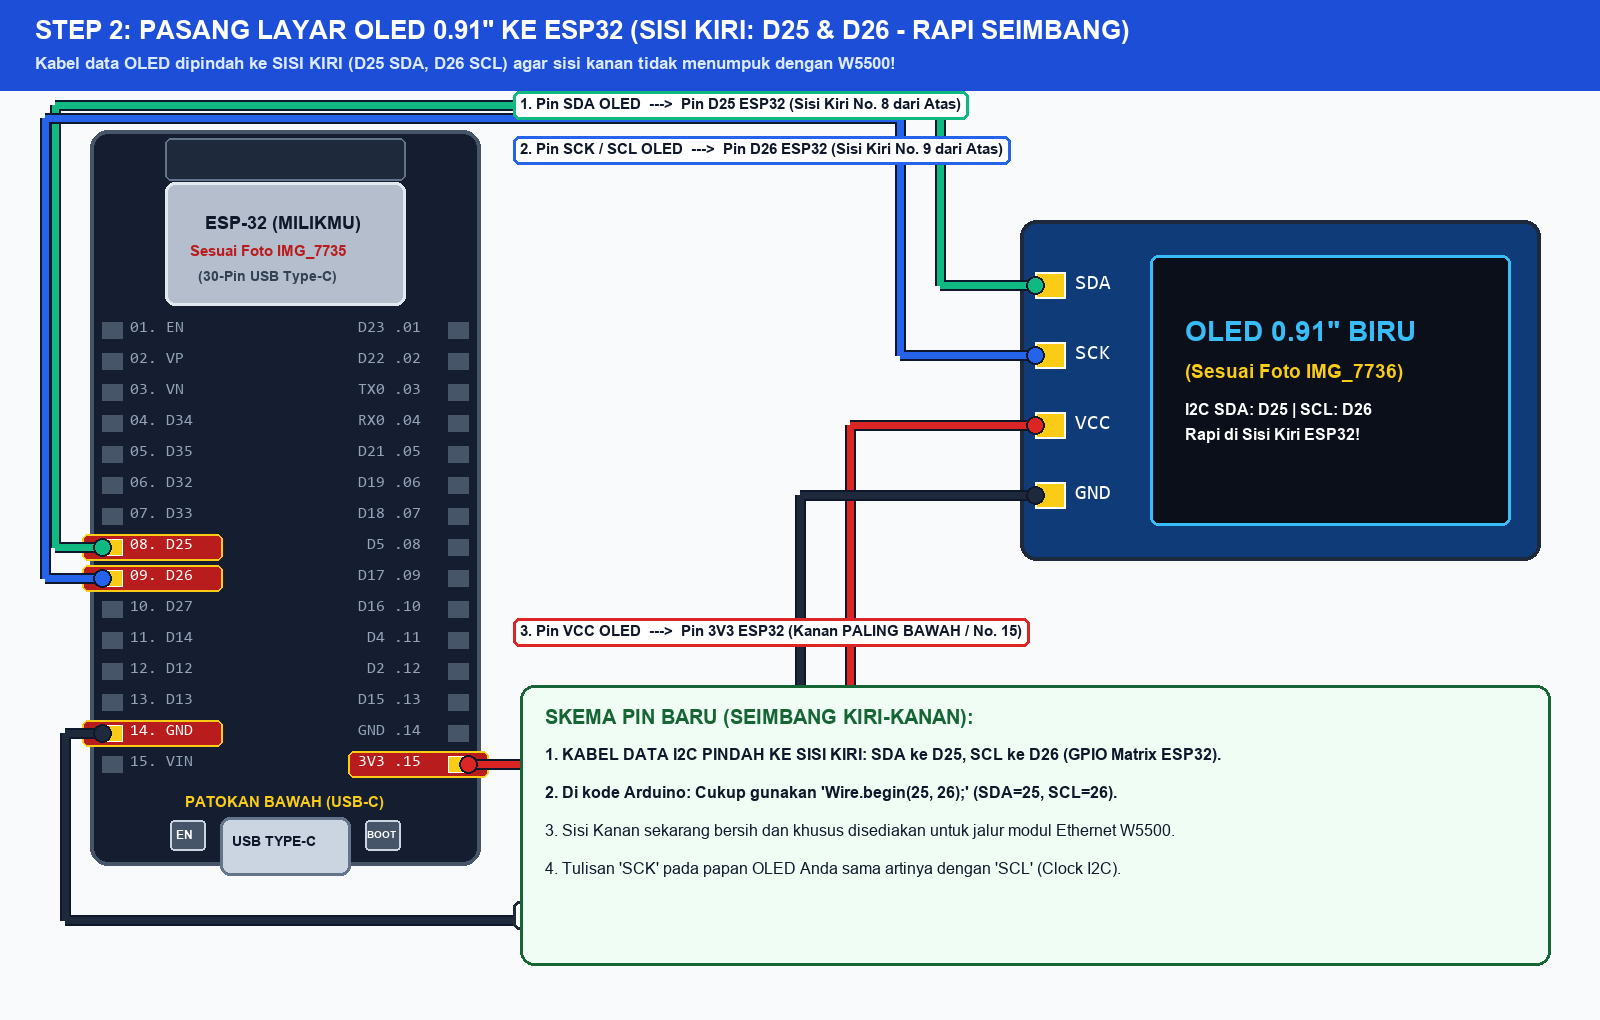
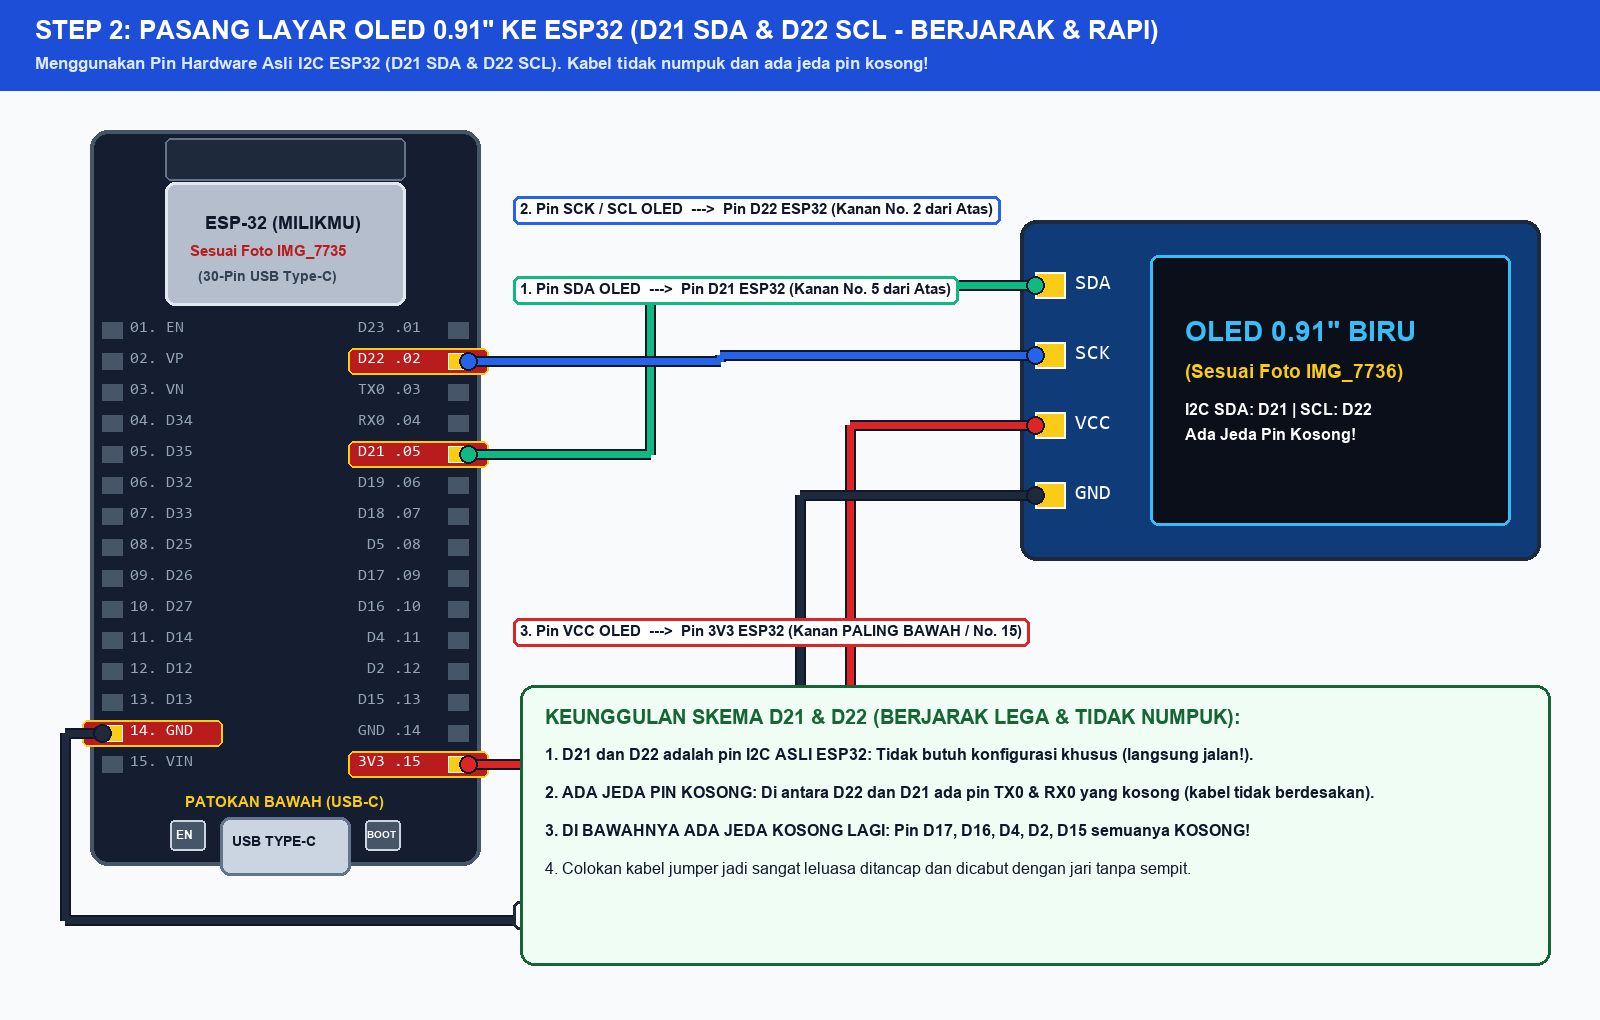
refactor: susun pin dengan sela kosong lega (OLED ke D21/D22, berjarak dari atas ke bawah)

diff --git a/render_wiring_steps.py b/render_wiring_steps.py
@@ -267,10 +267,10 @@ def make_step2():
     lbls = []
 
     d.rectangle([0, 0, W, 90], fill=(29, 78, 216))
-    d.text((35, 15), "STEP 2: PASANG LAYAR OLED 0.91\" KE ESP32 (SISI KIRI: D25 & D26 - RAPI SEIMBANG)", fill=(255, 255, 255), font=get_font(26, bold=True))
-    d.text((35, 53), "Kabel data OLED dipindah ke SISI KIRI (D25 SDA, D26 SCL) agar sisi kanan tidak menumpuk dengan W5500!", fill=(219, 234, 254), font=get_font(17, bold=True))
+    d.text((35, 15), "STEP 2: PASANG LAYAR OLED 0.91\" KE ESP32 (D21 SDA & D22 SCL - BERJARAK & RAPI)", fill=(255, 255, 255), font=get_font(26, bold=True))
+    d.text((35, 53), "Menggunakan Pin Hardware Asli I2C ESP32 (D21 SDA & D22 SCL). Kabel tidak numpuk dan ada jeda pin kosong!", fill=(219, 234, 254), font=get_font(17, bold=True))
 
-    esp_coords = draw_esp32(d, 90, 130, active_left=["D25", "D26", "GND_L"], active_right=["3V3"])
+    esp_coords = draw_esp32(d, 90, 130, active_left=["GND_L"], active_right=["D22", "D21", "3V3"])
 
     ox, oy = 1020, 220
     ow, oh = 520, 340
@@ -278,8 +278,8 @@ def make_step2():
     d.rounded_rectangle([ox+130, oy+35, ox+ow-30, oy+oh-35], radius=8, fill=(10, 15, 25), outline=(56, 189, 248), width=3)
     d.text((ox+165, oy+95), "OLED 0.91\" BIRU", fill=(56, 189, 248), font=get_font(28, bold=True))
     d.text((ox+165, oy+140), "(Sesuai Foto IMG_7736)", fill=(250, 204, 21), font=get_font(19, bold=True))
-    d.text((ox+165, oy+180), "I2C SDA: D25 | SCL: D26", fill=(255, 255, 255), font=get_font(16, bold=True))
-    d.text((ox+165, oy+205), "Rapi di Sisi Kiri ESP32!", fill=(255, 255, 255), font=get_font(16, bold=True))
+    d.text((ox+165, oy+180), "I2C SDA: D21 | SCL: D22", fill=(255, 255, 255), font=get_font(16, bold=True))
+    d.text((ox+165, oy+205), "Ada Jeda Pin Kosong!", fill=(255, 255, 255), font=get_font(16, bold=True))
 
     oled_pins = [
         ("SDA", oy+65),
@@ -293,25 +293,21 @@ def make_step2():
         d.text((ox+55, py-12), pname, fill=(255, 255, 255), font=get_font(21, bold=True, mono=True))
         oled_pts[pname] = (ox+15, py)
 
-    # 1. SDA -> D25 (Sisi Kiri No. 8 dari Atas)
+    # 1. SDA -> D21 (Kanan No. 5 dari Atas)
     draw_wire(d, [
         oled_pts["SDA"],
-        (940, oled_pts["SDA"][1]),
-        (940, 105),
-        (55, 105),
-        (55, esp_coords["D25"][1]),
-        esp_coords["D25"]
-    ], (16, 185, 129), width=7, label="1. Pin SDA OLED  --->  Pin D25 ESP32 (Sisi Kiri No. 8 dari Atas)", label_pos=(520, 95), labels_queue=lbls)
+        (650, oled_pts["SDA"][1]),
+        (650, esp_coords["D21"][1]),
+        esp_coords["D21"]
+    ], (16, 185, 129), width=7, label="1. Pin SDA OLED  --->  Pin D21 ESP32 (Kanan No. 5 dari Atas)", label_pos=(520, 280), labels_queue=lbls)
 
-    # 2. SCK / SCL -> D26 (Sisi Kiri No. 9 dari Atas)
+    # 2. SCK / SCL -> D22 (Kanan No. 2 dari Atas)
     draw_wire(d, [
         oled_pts["SCK"],
-        (900, oled_pts["SCK"][1]),
-        (900, 118),
-        (45, 118),
-        (45, esp_coords["D26"][1]),
-        esp_coords["D26"]
-    ], (37, 99, 235), width=7, label="2. Pin SCK / SCL OLED  --->  Pin D26 ESP32 (Sisi Kiri No. 9 dari Atas)", label_pos=(520, 140), labels_queue=lbls)
+        (720, oled_pts["SCK"][1]),
+        (720, esp_coords["D22"][1]),
+        esp_coords["D22"]
+    ], (37, 99, 235), width=7, label="2. Pin SCK / SCL OLED  --->  Pin D22 ESP32 (Kanan No. 2 dari Atas)", label_pos=(520, 200), labels_queue=lbls)
 
     # 3. VCC -> 3V3 (Kanan Paling Bawah)
     draw_wire(d, [
@@ -334,15 +330,15 @@ def make_step2():
     flush_labels(d, lbls)
 
     d.rounded_rectangle([520, 685, 1550, 965], radius=14, fill=(240, 253, 244), outline=(22, 101, 52), width=3)
-    d.text((545, 705), "SKEMA PIN BARU (SEIMBANG KIRI-KANAN):", fill=(22, 101, 52), font=get_font(20, bold=True))
+    d.text((545, 705), "KEUNGGULAN SKEMA D21 & D22 (BERJARAK LEGA & TIDAK NUMPUK):", fill=(22, 101, 52), font=get_font(20, bold=True))
     tips = [
-        "1. KABEL DATA I2C PINDAH KE SISI KIRI: SDA ke D25, SCL ke D26 (GPIO Matrix ESP32).",
-        "2. Di kode Arduino: Cukup gunakan 'Wire.begin(25, 26);' (SDA=25, SCL=26).",
-        "3. Sisi Kanan sekarang bersih dan khusus disediakan untuk jalur modul Ethernet W5500.",
-        "4. Tulisan 'SCK' pada papan OLED Anda sama artinya dengan 'SCL' (Clock I2C)."
+        "1. D21 dan D22 adalah pin I2C ASLI ESP32: Tidak butuh konfigurasi khusus (langsung jalan!).",
+        "2. ADA JEDA PIN KOSONG: Di antara D22 dan D21 ada pin TX0 & RX0 yang kosong (kabel tidak berdesakan).",
+        "3. DI BAWAHNYA ADA JEDA KOSONG LAGI: Pin D17, D16, D4, D2, D15 semuanya KOSONG!",
+        "4. Colokan kabel jumper jadi sangat leluasa ditancap dan dicabut dengan jari tanpa sempit."
     ]
     for i, t in enumerate(tips):
-        d.text((545, 745 + i*38), t, fill=(15, 23, 42), font=get_font(16, bold=(i in [0,1])))
+        d.text((545, 745 + i*38), t, fill=(15, 23, 42), font=get_font(16, bold=(i in [0,1,2])))
 
     save_both(img, "step2_wiring_oled.png")
 
@@ -357,7 +353,7 @@ def make_step3():
     lbls = []
 
     d.rectangle([0, 0, W, 95], fill=(185, 28, 28))
-    d.text((35, 12), "STEP 3: KABEL SENSOR AS608 KE SISI KIRI ESP32 (D32, D33, D35 - RAPI SEIMBANG)", fill=(255, 255, 255), font=get_font(26, bold=True))
+    d.text((35, 12), "STEP 3: KABEL SENSOR AS608 DI SISI KIRI ESP32 (D35 TOUCH, D32 TX, D33 RX - BERJARAK)", fill=(255, 255, 255), font=get_font(26, bold=True))
     d.text((35, 50), "Kabel data Sensor Sidik Jari dipindah ke SISI KIRI (D32 RX2, D33 TX2) berdampingan dengan Pin Sentuh D35!", fill=(254, 240, 138), font=get_font(16, bold=True))
 
     esp_coords = draw_esp32(d, 90, 140, active_left=["D35", "D32", "D33", "GND_L"], active_right=["3V3"])
@@ -451,12 +447,12 @@ def make_step3():
     flush_labels(d, lbls)
 
     d.rounded_rectangle([510, 680, 1560, 890], radius=14, fill=(240, 253, 244), outline=(22, 101, 52), width=3)
-    d.text((530, 695), "SKEMA PIN BARU AS608 DI SISI KIRI (BERDAMPINGAN D35, D32, D33):", fill=(22, 101, 52), font=get_font(19, bold=True))
+    d.text((530, 695), "SISI KIRI DENGAN JEDA PIN KOSONG (BERSIH & TIDAK BERDESAKAN):", fill=(22, 101, 52), font=get_font(19, bold=True))
     notes = [
-        "1. KABEL DATA PINDAH KE SISI KIRI: TX Oranye ke D32, RX Putih ke D33 (Tepat di bawah Pin Touch D35).",
-        "2. Di kode Arduino: Cukup gunakan 'mySerial.begin(57600, SERIAL_8N1, 32, 33);' (RX=32, TX=33).",
-        "3. Pin V+ dan VA tetap disatukan ke 3V3 (Kabel Coklat + Kuning), Kabel Biru ke GND.",
-        "4. Kabel HITAM (D+) dan MERAH (D-) adalah USB, tetap dikosongkan/jangan disambung."
+        "1. Bagian Atas: Pin EN, VP, VN, D34 KOSONG (Jeda 4 pin bebas).",
+        "2. Sensor Sidik Jari: Hijau di D35, Oranye di D32, Putih di D33.",
+        "3. Di Bawah Sensor: Pin D25, D26, D27 KOSONG (Jeda 3 pin bebas ke Buzzer D14!).",
+        "4. Buzzer di D14. Di bawahnya: D12 dan D13 KOSONG (Jeda 2 pin bebas ke GND & VIN!)."
     ]
     for i, n in enumerate(notes):
         d.text((530, 732 + i*34), n, fill=(15, 23, 42), font=get_font(15, bold=(i in [0,1])))

diff --git a/README.md b/README.md
@@ -106,9 +106,9 @@ Proyek ini menggunakan **Opsi 2**: modul Ethernet PHY **LAN8720A (RMII Native)**
   - `IO23` <-> `LAN8720A MDC`
   - `IO18` <-> `LAN8720A MDIO`
   - `IO0`  <-> `LAN8720A REFCLK / 50MHz Clock`
-* **Layar OLED 0.91" (I2C di Sisi Kiri ESP32):**
-  - `IO25` <-> `OLED SDA`
-  - `IO26` <-> `OLED SCL`
+* **Layar OLED 0.91" (I2C Hardware Bawaan ESP32 - Ada Sela/Jeda Pin Kosong):**
+  - `IO21` <-> `OLED SDA`
+  - `IO22` <-> `OLED SCL`
 * **Sensor Sidik Jari AS608 (UART2 + Touch di Sisi Kiri ESP32):**
   - `IO32` (RX2) <-> `AS608 TX` (Kabel Oranye)
   - `IO33` (TX2) <-> `AS608 RX` (Kabel Putih)
@@ -222,12 +222,13 @@ Casing dirancang presisi dengan toleransi clearance 1.5 mm di sekeliling PCB aga
 #### Step 1: Rakit Dioda Bridge, Resistor 25k & Kalibrasi XL7015 ke 5.00V
 ![Step 1 Kalibrasi XL7015](step1_kalibrasi_xl7015.png)
 
-#### Step 2: Pasang 4 Kabel Layar OLED 0.91" (`SDA, SCK, VCC, GND`) ke Sisi Kiri ESP32
-Kabel data OLED diposisikan di **SISI KIRI ESP32** agar sisi kanan tidak menumpuk dengan kabel Ethernet:
-- `SDA` OLED -> Pin **`D25`** ESP32
-- `SCK / SCL` OLED -> Pin **`D26`** ESP32
+#### Step 2: Pasang 4 Kabel Layar OLED 0.91" (`SDA, SCK, VCC, GND`) ke ESP32 (Ada Sela & Jeda Pin Kosong)
+Menggunakan pin I2C default ESP32 yang berjarak lega sehingga tidak berdesakan:
+- `SDA` OLED -> Pin **`D21`** ESP32 (Kanan No. 5 dari Atas)
+- `SCK / SCL` OLED -> Pin **`D22`** ESP32 (Kanan No. 2 dari Atas)
 - `VCC` OLED -> Pin **`3V3`** ESP32 (Kanan Paling Bawah)
 - `GND` OLED -> Pin **`GND`** ESP32 (Kiri No. 2 dari Bawah)
+> *Catatan Tata Letak:* Di antara pin D22 dan D21 ada jeda pin kosong (TX0 & RX0). Di bawah D5 juga ada jeda 5 pin kosong (D17, D16, D4, D2, D15) sehingga kabel tidak menumpuk!
 ![Step 2 Wiring OLED](step2_wiring_oled.png)
 
 #### Step 3: Pasang Kabel Sensor Sidik Jari AS608 ke Sisi Kiri ESP32 (Berdampingan di D35, D32, D33)
@@ -283,7 +284,7 @@ Gunakan library resmi ESP32 Ethernet bawaan Arduino core (`ETH.h` yang berbasis 
 #define ETH_TYPE       ETH_PHY_LAN8720
 #define ETH_CLK_MODE   ETH_CLOCK_GPIO0_IN
 
-// OLED I2C di Sisi Kiri ESP32 (IO25 SDA, IO26 SCL)
+// OLED I2C (IO21 SDA, IO22 SCL)
 Adafruit_SSD1306 display(128, 32, &Wire, -1);
 
 // AS608 Fingerprint di Sisi Kiri ESP32 (UART2: IO32 RX2, IO33 TX2)
@@ -311,7 +312,7 @@ void WiFiEvent(WiFiEvent_t event) {
 
 void setup() {
   Serial.begin(115200);
-  Wire.begin(25, 26); // SDA=IO25, SCL=IO26 (Sisi Kiri ESP32)
+  Wire.begin(21, 22); // SDA=IO21, SCL=IO22 (I2C default ESP32)
   display.begin(SSD1306_SWITCHCAPVCC, 0x3C);
   mySerial.begin(57600, SERIAL_8N1, 32, 33); // RX=IO32, TX=IO33 (Sisi Kiri ESP32)
   
